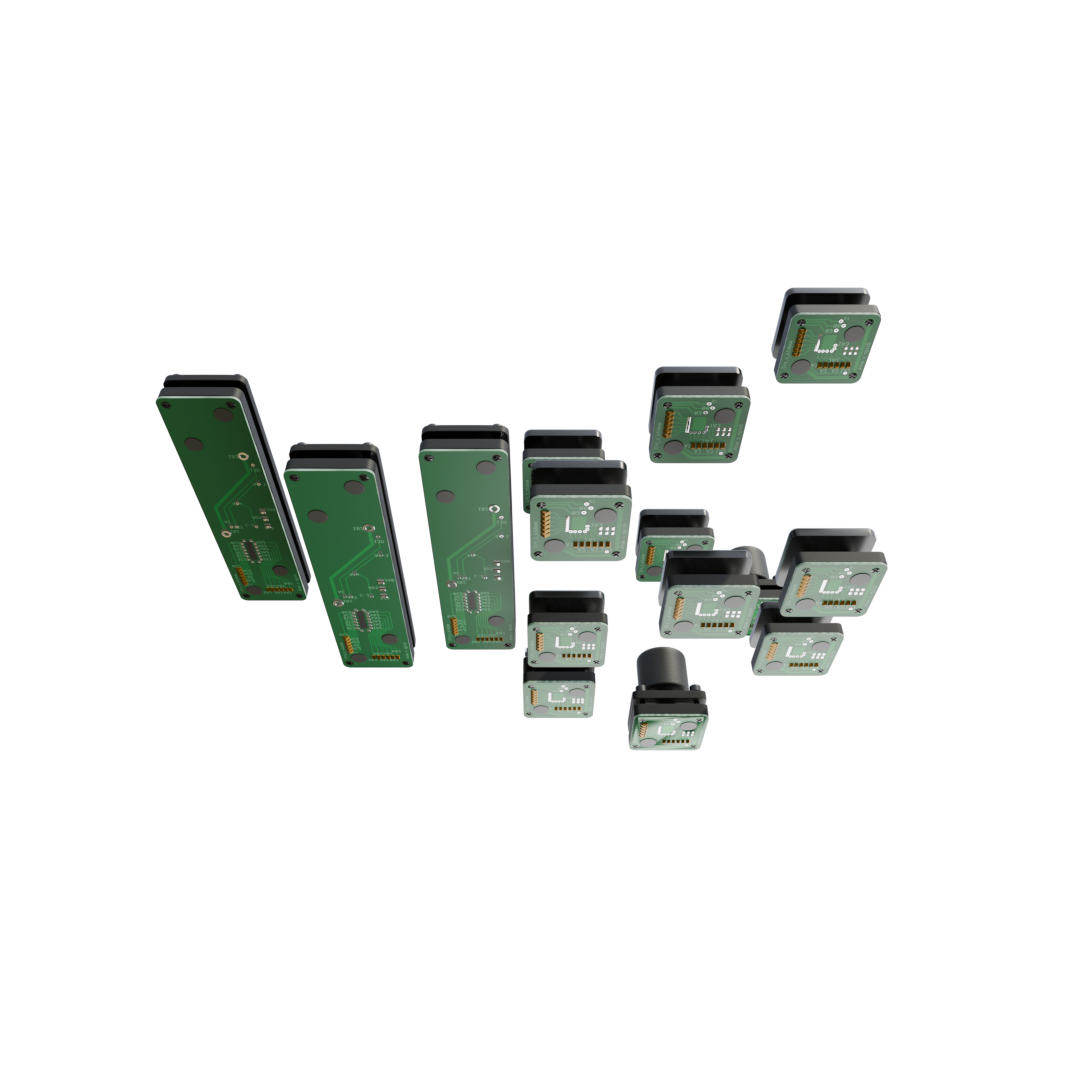
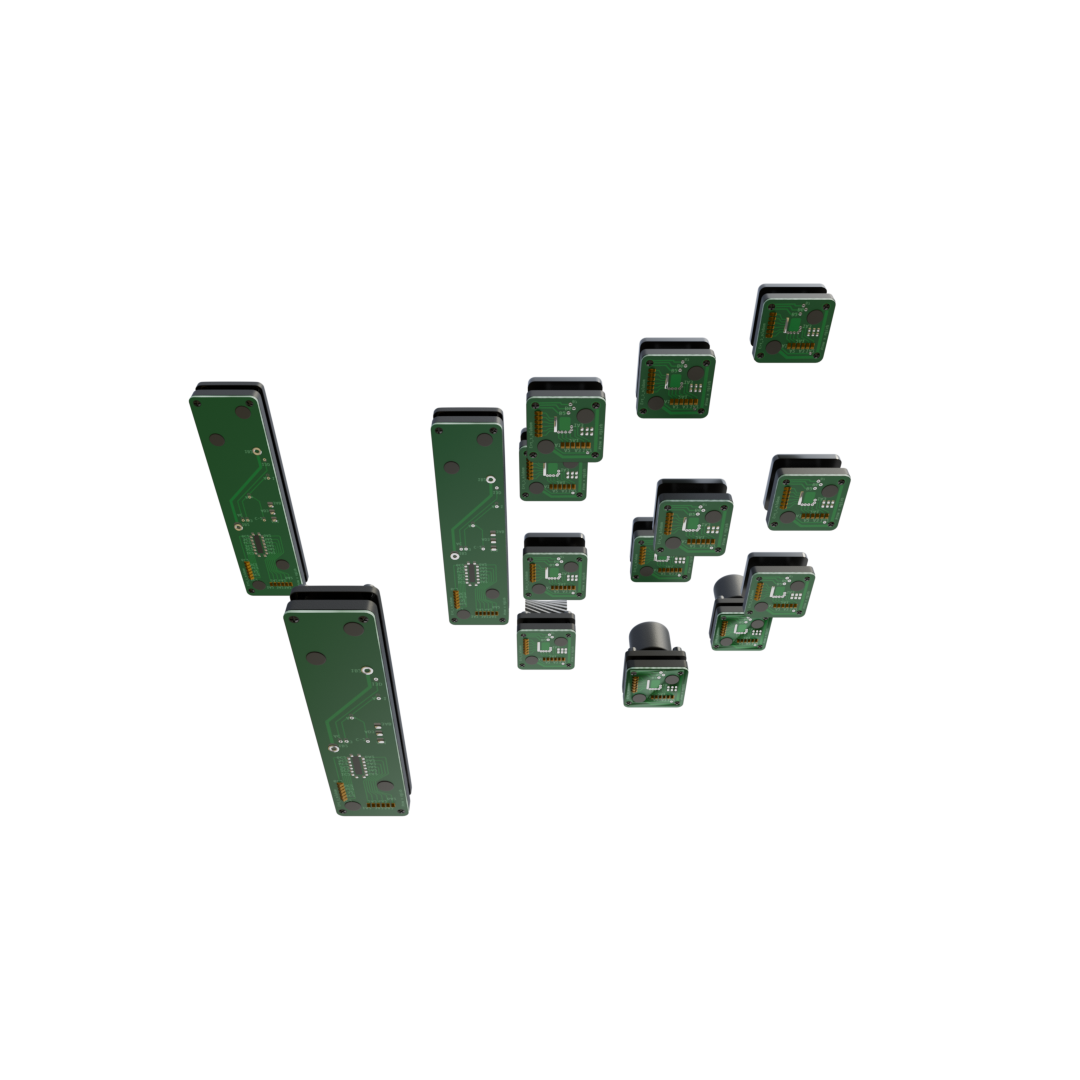
reimport slider imgs prepost

Changed region(s): [[0.1222, 0.2444, 0.825, 0.7639]]

diff --git a/src/components/App.js b/src/components/App.js
@@ -13,7 +13,7 @@ export default function App() {
 	useEffect(() => {
 		const scrollStart = 600;
 		const scrollEnd = 2100;
-		const IMG_COUNT = 30; // Coordinate with Scroll Section Component
+		const IMG_COUNT = 50; // Coordinate with Scroll Section Component
 		const START_IMG_INDEX = 1;
 		let scrollFrame = Math.abs(scrollEnd - scrollStart);
 		const scrollFramePerImage = scrollFrame / IMG_COUNT;
@@ -30,6 +30,7 @@ export default function App() {
                START_IMG_INDEX;
 
 				setScrollImgIndex(Math.floor(imgIndex) - 1); 
+				console.log(Math.floor(imgIndex - 1));
 			}
 		});
 	}, []);

diff --git a/src/components/ScrollingSection.js b/src/components/ScrollingSection.js
@@ -6,7 +6,7 @@ export default function ScrollAnimPage({ imgIndex, height }) {
 
 	// Initialization
 	useEffect(() => {
-		loadScrollImgs(30).then((modules) => {
+		loadScrollImgs(50).then((modules) => {
 			const loadedImages = modules.map((module) => module.default);
 			SetScrollImgs(loadedImages);
 		});

diff --git a/src/styles/styles.scss b/src/styles/styles.scss
@@ -295,7 +295,6 @@ body {
 
 /* Scroll Anim Section */
 .scroll-anim-section {
-   background-color: rgb(220, 29, 29);
    width: 100vw;
    position: sticky;
    top: $top-nav-height;
